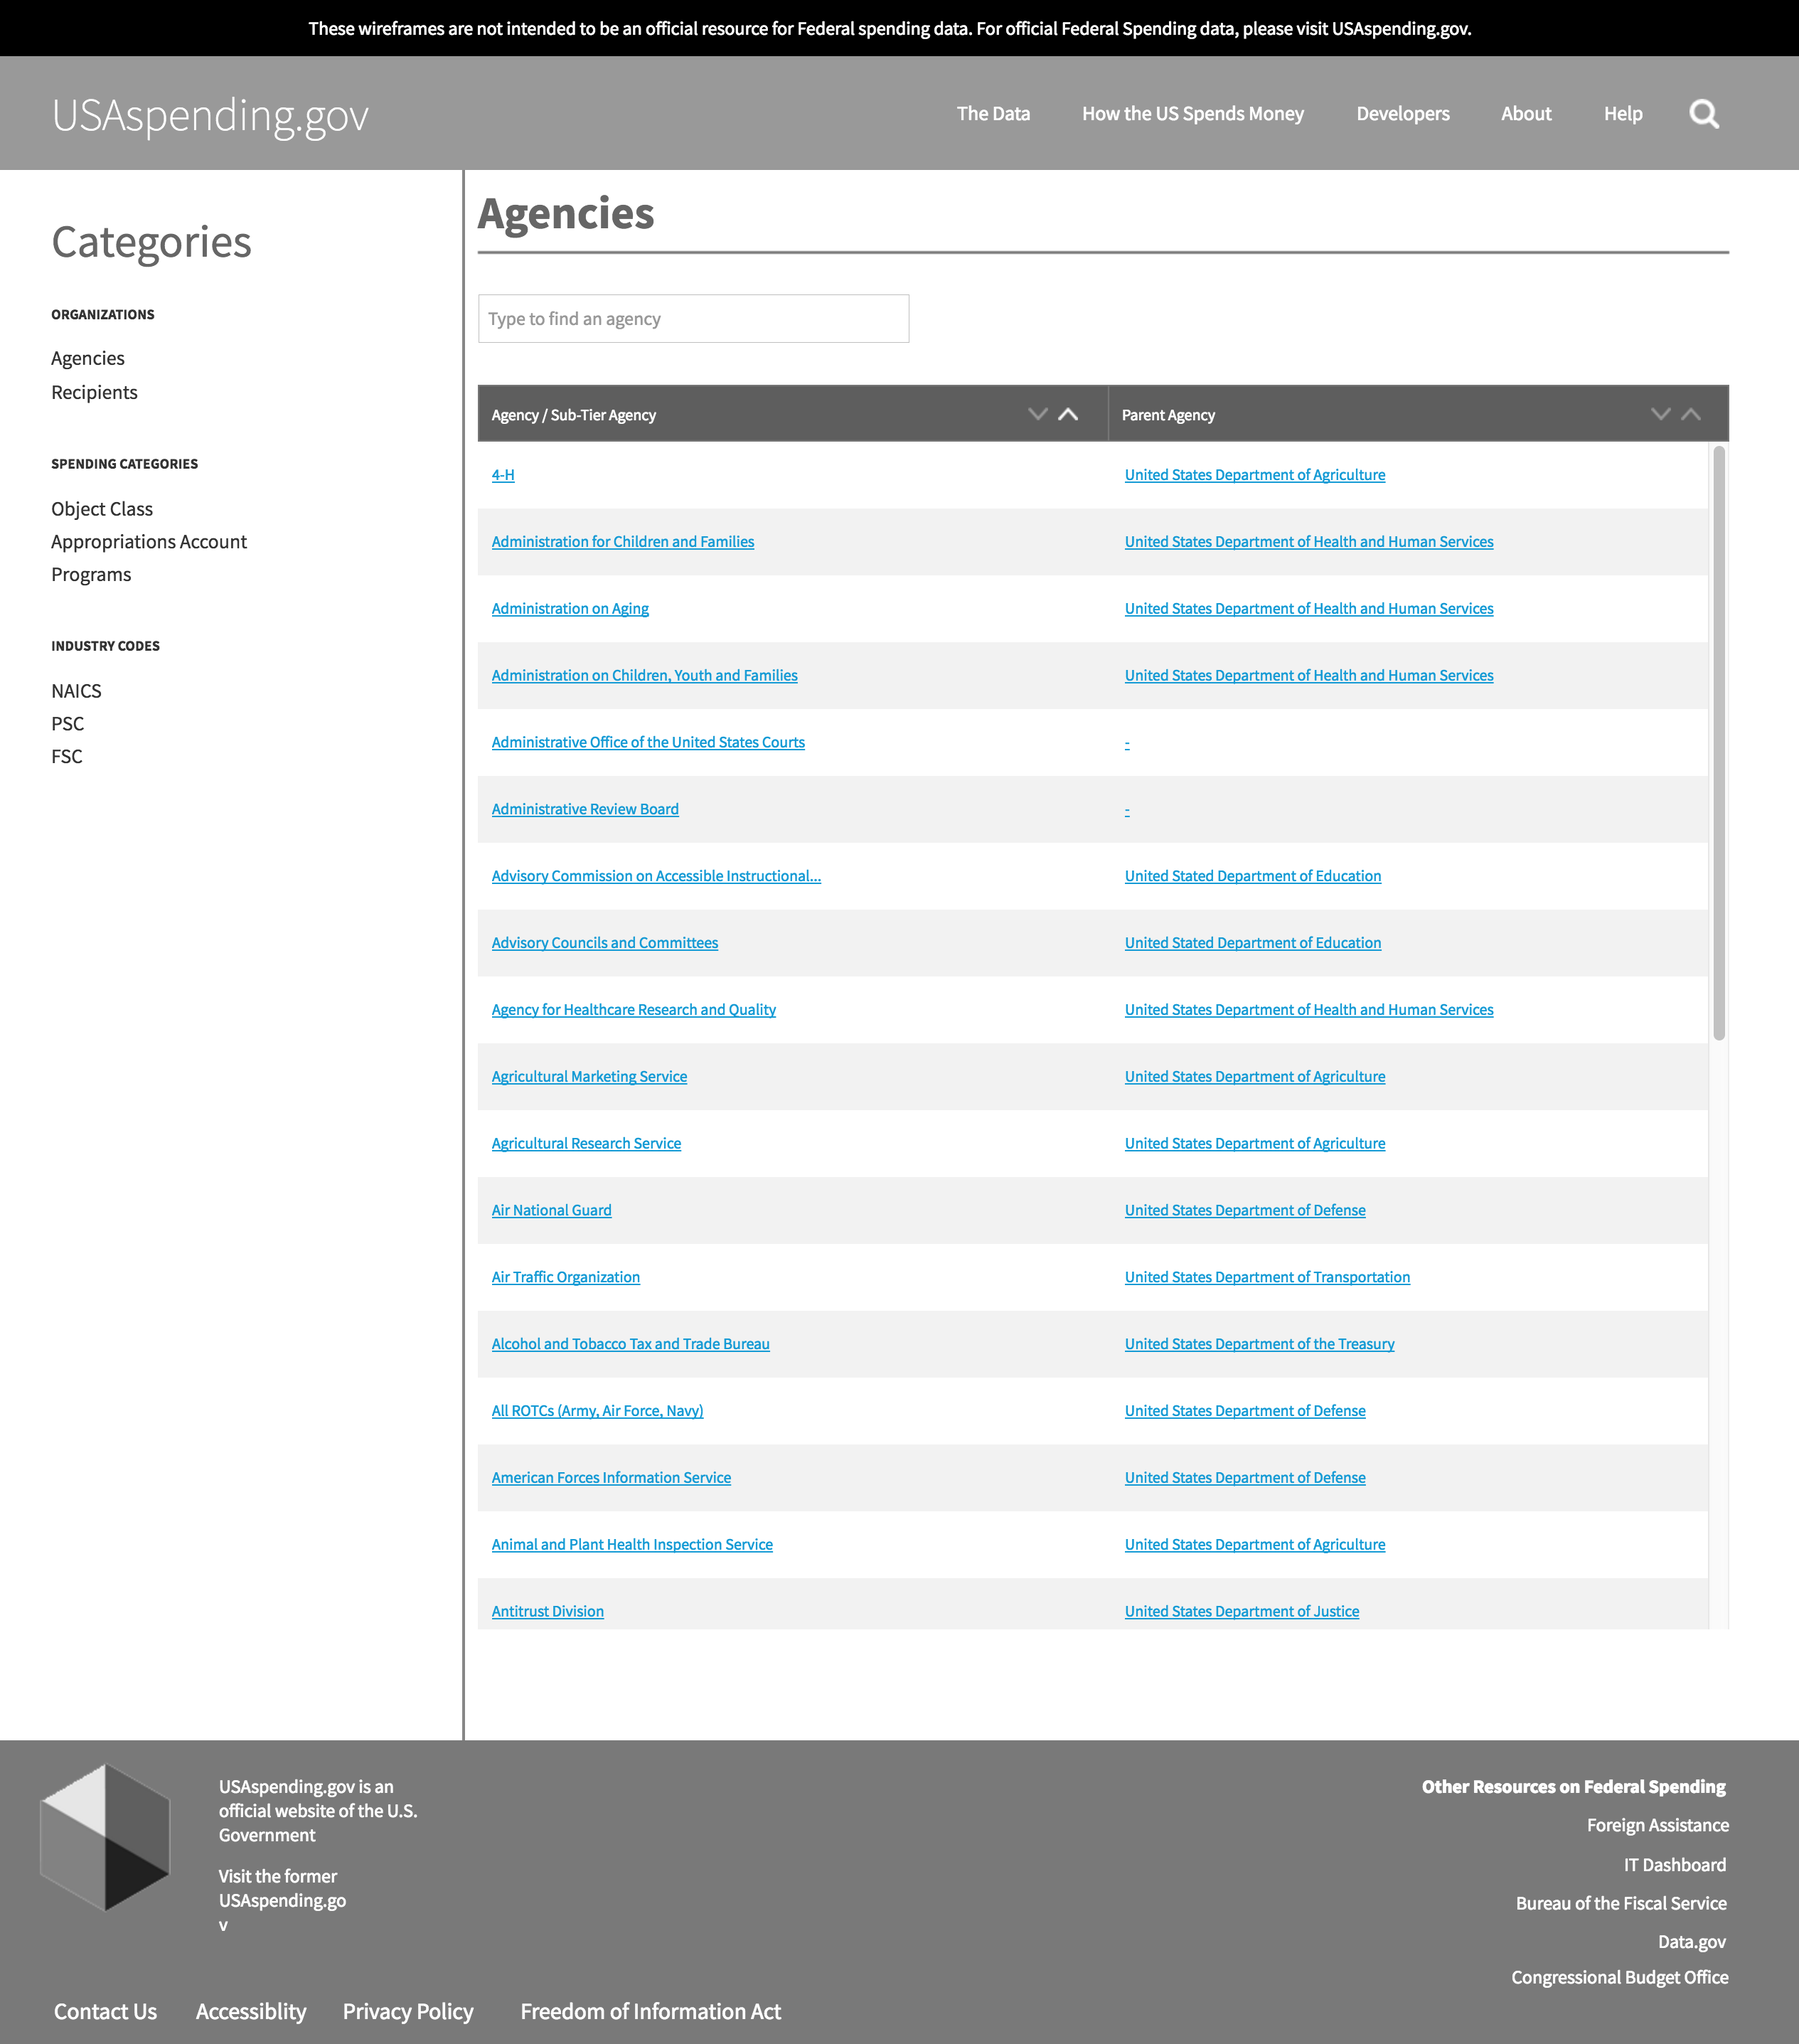
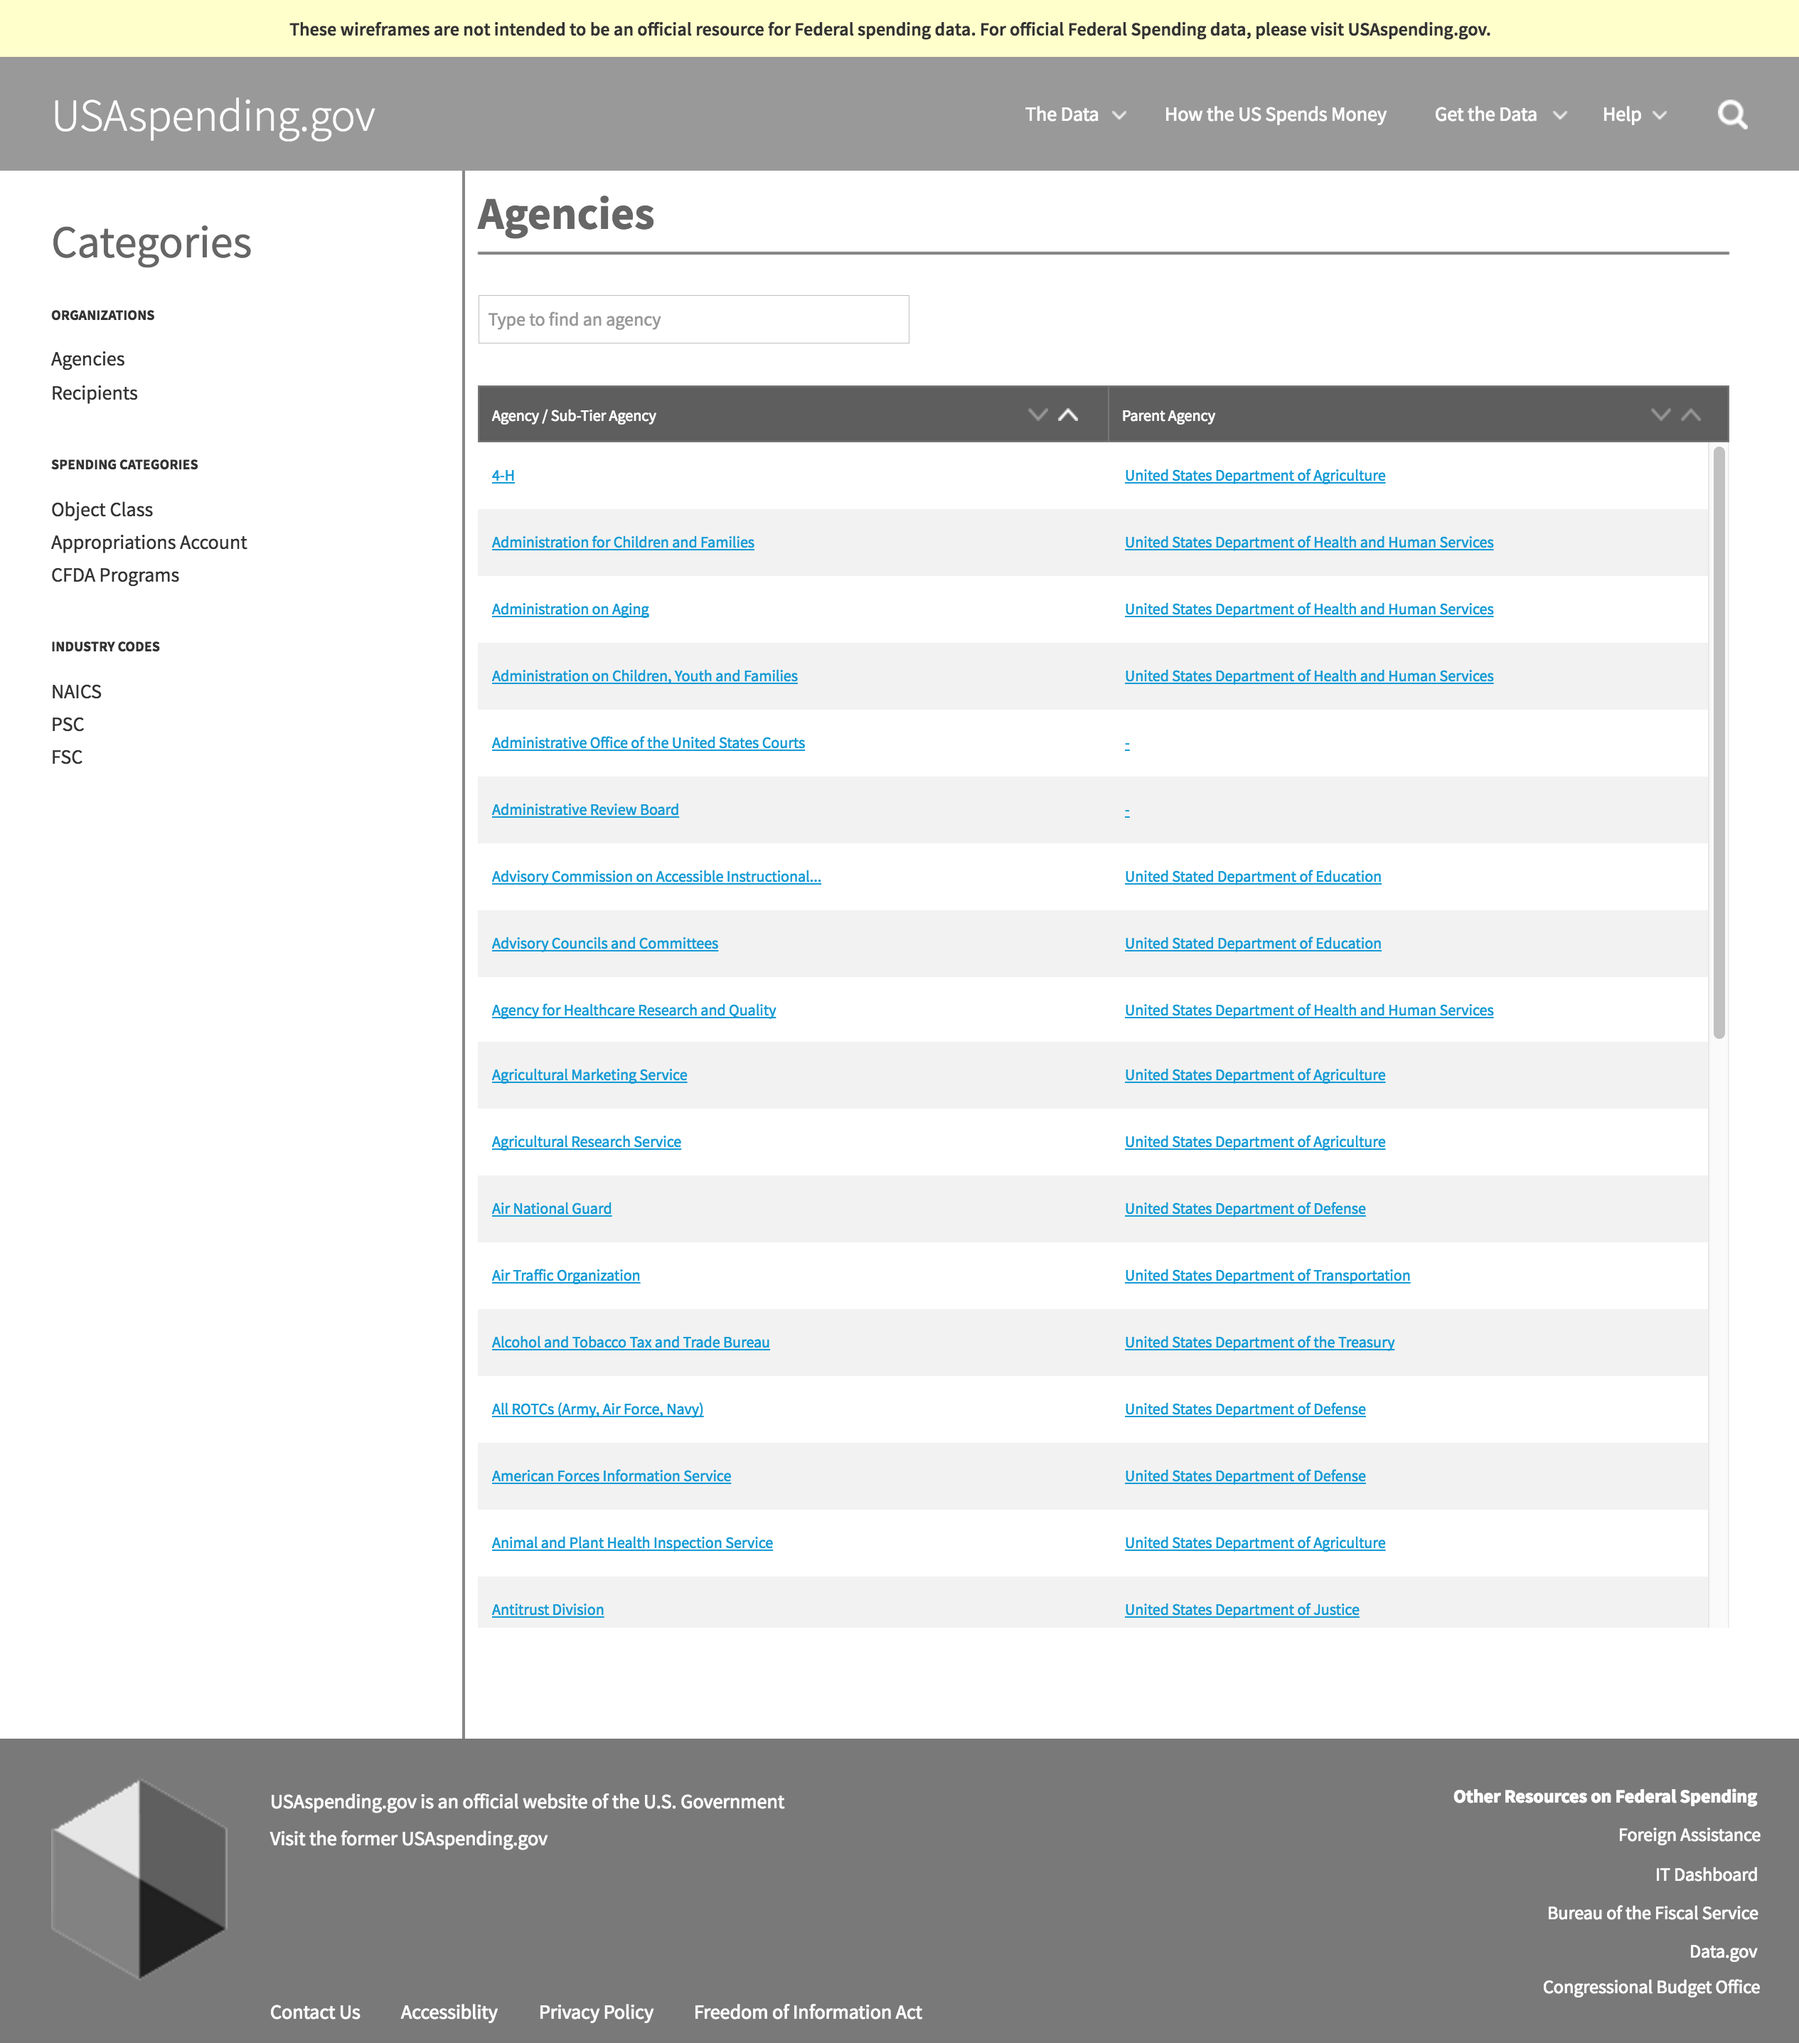
update images and URL references for browse and financial summary pages

diff --git a/_concepts/financial-assistance-award-summary.md b/_concepts/financial-assistance-award-summary.md
@@ -35,7 +35,7 @@ tabs:
       - description: Visualization of funding
       - description: Visual timeline of the financial assistance activity
     disclaimer_text: <a class="usa-cta external-link" href='http://my36m8.axshare.com/financial_assistance_award_summary.html' target="_blank">View an interactive version of the below image</a>
-    image: "/assets/img/concept_financial-assistance-summary.jpg"
+    image: "/assets/img/concept_financial-assistance-summary.png"
     image_alt_text: This image displays the financial assistance award summary wireframe. Across the top of the page are three boxes that include the Award ID, the Total Amount of the Award, and the Period of Performance for the award.  At the far right is the Download button. In the section below to the left  are the details of the Prime Recipient, including the DUNS, Parent DUNS, address, and recipient type. In the next section is a list of the sub-recipients and their award amounts. Other Awards Received by this Recipient is the section below the sub-recipients. To the far right is a box with the details about the award, including the Major Awarding and Funding Agencies, and the Awarding and Funding Sub-tier Agencies, as well as the CFDA, the Award Date, the Place of Performance, and the Appropriation Account. Below is a stacked chart showing the full award amount, the amount un-spent, and the amount spent. Across the bottom of the page is the timeline of transactions and sub-awards.
     below_image_content:
     disqus_identifier: 72704398

diff --git a/_concepts/browse.md b/_concepts/browse.md
@@ -31,7 +31,7 @@ tabs:
     features:
       - description: Direct access to all data in a specific category in one place.
     disclaimer_text: <a class="usa-cta external-link" href='http://my36m8.axshare.com/browse.html' target="_blank">View an interactive version of the below image</a>
-    image: "/assets/img/concept_browse_A.jpg"
+    image: "/assets/img/concept_browse_A.png"
     image_alt_text: This image displays categories to browse for data.  At the left are links to Organizations, Spending Categories, and Industry Codes categories.  In the center of the page are links to the same categories but without the specific headings.
     below_image_content:
     disqus_identifier: 43048475
